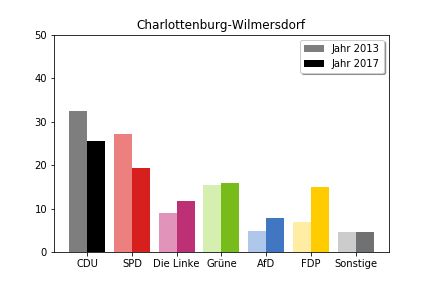
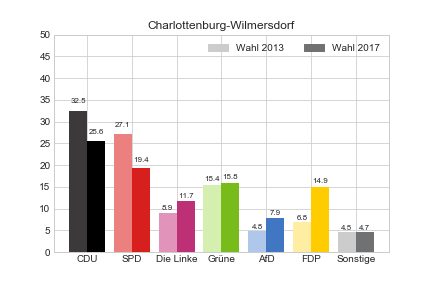
neue Python-Diagramme und aktualisierung der Erststimmen auf 2017

diff --git a/BerlinKarte.js b/BerlinKarte.js
@@ -90,7 +90,7 @@ function getWinner(wahlkreis) { // wahlkreis ist eine Zahl wie 75 fuer Mitte
             return getPartyColor('CDU');
             break;
         case 78:
-            return getPartyColor('CDU');
+            return getPartyColor('SPD');
             break;
         case 79:
             return getPartyColor('CDU');
@@ -184,7 +184,7 @@ wahlergebnisse.update = function (props) {
         //var elem = this._div.innerHTML;
         //elem = props.WKR_NR;
         //$(elem).append("<img src='" + wkrnr + ".png'");
-       this._div.innerHTML ='<img src =\'R_Balkendiagramme/' + wkrnr + '.png\' height=\'350\'>';
+       this._div.innerHTML ='<img src =\'Python_Balkendiagramme/' + wkrnr + '.png\' height=\'350\'>';
     } catch(err) {
         console.log(err);
     }
